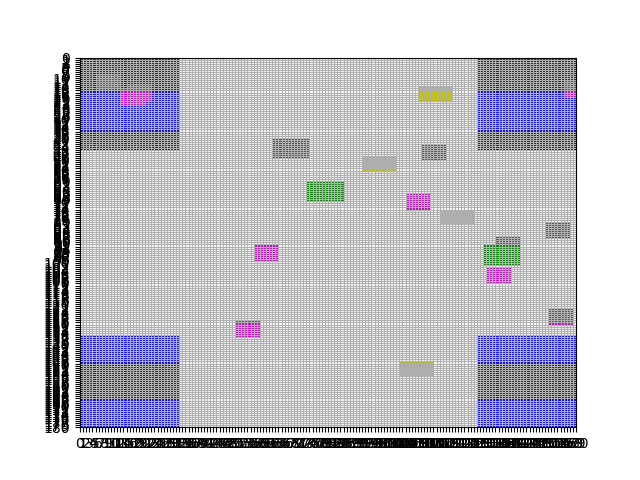
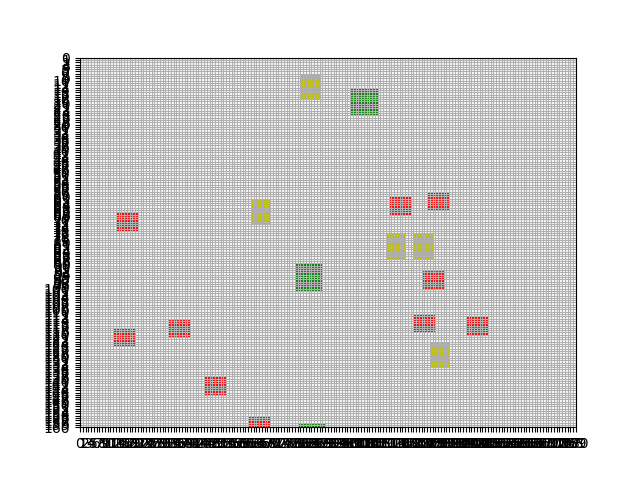
memory error

diff --git a/code/visualization/visualize.py b/code/visualization/visualize.py
@@ -17,21 +17,36 @@ def visualize(grid):
     plt.ylim([grid.depth, 0])
     plt.grid(True)
 
-    # Load water coordinates from correct map
-    water = grid.load_water(grid.map)
-    print(water)
+    # # Load water coordinates from correct map
+    # water = grid.load_water(grid.map)
+    # print(f" Water: {water}")
 
-    # how to loop through nested dict from https://www.learnbyexample.org/python-nested-dictionary/#:~:text=Access%20Nested%20Dictionary%20Items,key%20in%20multiple%20square%20brackets.&text=If%20you%20refer%20to%20a,dictionary%2C%20an%20exception%20is%20raised.&text=To%20avoid%20such%20exception%2C%20you,special%20dictionary%20get()%20method.
-    # Add representation of water to diagram
-    for ident, coordinates in water.items():
-        # how to draw rectangle in diagram from https://www.codespeedy.com/how-to-draw-shapes-in-matplotlib-with-python/
-        bottom_x = int(water[ident].get('bottom_left_x'))
-        bottom_y = int(water[ident].get('bottom_left_y'))
-        top_x = int(water[ident].get('top_right_x'))
-        top_y = int(water[ident].get('top_right_y'))
+    # # how to loop through nested dict from https://www.learnbyexample.org/python-nested-dictionary/#:~:text=Access%20Nested%20Dictionary%20Items,key%20in%20multiple%20square%20brackets.&text=If%20you%20refer%20to%20a,dictionary%2C%20an%20exception%20is%20raised.&text=To%20avoid%20such%20exception%2C%20you,special%20dictionary%20get()%20method.
+    # # Add representation of water to diagram
+    # # for ident, coordinates in water.items():
+    # #     # how to draw rectangle in diagram from https://www.codespeedy.com/how-to-draw-shapes-in-matplotlib-with-python/
+    # #     bottom_x = int(water[ident].get('bottom_left_x'))
+    # #     bottom_y = int(water[ident].get('bottom_left_y'))
+    # #     top_x = int(water[ident].get('top_right_x'))
+    # #     top_y = int(water[ident].get('top_right_y'))
 
-        water_vis = plt.Rectangle((bottom_x, bottom_y), top_x, top_y, fc="blue")
-        plt.gca().add_patch(water_vis)
+    # #     water_vis = plt.Rectangle((bottom_x, bottom_y), top_x, top_y, fc="blue")
+    # #     plt.gca().add_patch(water_vis)
+
+    # for ident, coordinates in water.items():
+    #     # how to draw rectangle in diagram from https://www.codespeedy.com/how-to-draw-shapes-in-matplotlib-with-python/
+        
+    #     print(f"Ident: {ident}")
+    #     print(f"coordinates {coordinates}")
+
+    #     top_left =  water[ident].get('top_left')
+    #     bottom_right = water[ident].get('bottom_right')
+
+    #     print(f"Top left {top_left}")
+    #     print(f"Bottom right {bottom_right}")
+
+    #     water_vis = plt.Rectangle(top_left, bottom_right[0], bottom_right[1], fc="blue")
+    #     plt.gca().add_patch(water_vis)
 
     # Load houses based on grid and add to diagram
     print(grid.all_houses)

diff --git a/code/algorithms/randomize.py b/code/algorithms/randomize.py
@@ -58,13 +58,13 @@ def random_assignment_house(grid, house, random_cell):
 
 	return all_info
 
-def random_assignment(grid, houses):
+def random_assignment(grid):
 	# print(f"grid: {grid}")
 	# print(f"houses in random: {houses}")
 
 	new_grid = copy.deepcopy(grid)
-	all_house_coordinates = {}
-
+	houses = new_grid.all_houses
+	
 	for house in houses.values():
 
 		print(f"HOUSE: {house}")
@@ -75,14 +75,15 @@ def random_assignment(grid, houses):
 			try:
 				random_cell = random_empty_cell(new_grid)
 				house_info = random_assignment_house(new_grid, house, random_cell)
-				new_grid = house_info[0]
+				second_grid = house_info[0]
 				house.coordinates = house_info[1]
+				print(f"House coordinates: {house.coordinates}")
 				succes = True
 
 				print(f"Updated grid:")
-				new_grid.print_grid()
+				second_grid.print_grid()
 			except:
 				print("Error")
 				pass
 
-	return new_grid
+	return second_grid

diff --git a/main.py b/main.py
@@ -10,20 +10,16 @@ if __name__ == "__main__":
 
     # water = test_grid.load_water("data/wijken/wijk_2.csv")
     # print(water)
-
-    # Obtain all houses
-    houses = test_grid.all_houses
-    # print(f"houses: {houses}")
     
     # Randomize algorithm
 
-    random_config = randomize.random_assignment(test_grid, houses)
+    random_config = randomize.random_assignment(test_grid)
 
     print("New grid:")
     random_config.print_grid()
 
-    # visualize case
-    # vis.visualize(test_grid)
+    # Visualize case
+    vis.visualize(random_config)
 
     # # Create csv output file
     # test_grid.create_output()

diff --git a/code/classes/grid.py b/code/classes/grid.py
@@ -102,6 +102,8 @@ class Grid():
         Transforms Cell objects into the 'water' type.
         """
 
+        print("Creating water")
+
         # Iterate over all water objects in dict
         for water in self.all_water:
 
